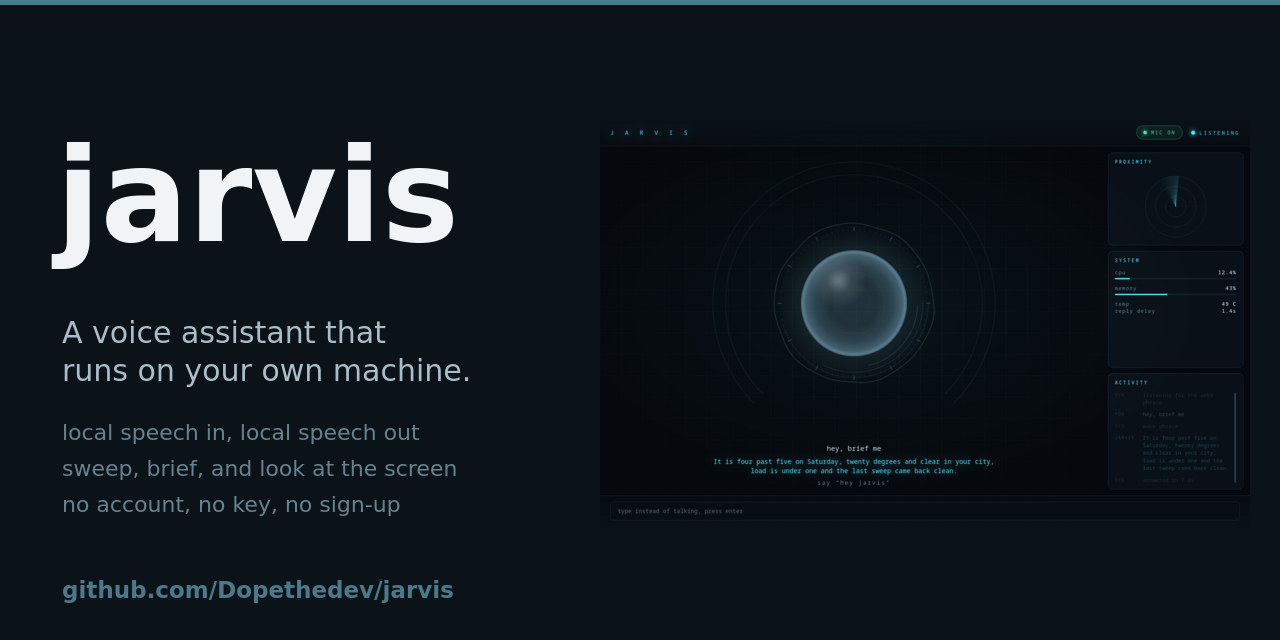
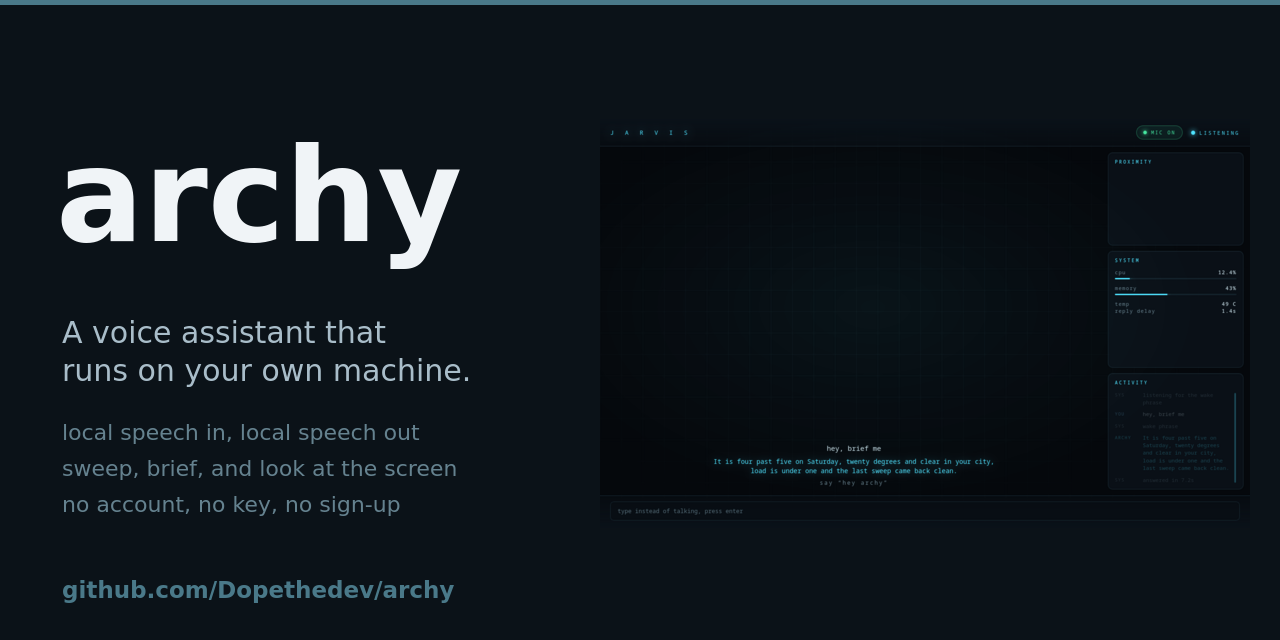
Redraw the screenshots with the name the project has now
The dashboard and the social card are the two things a stranger sees first, and
both still said JARVIS. Rendered from the scripts in docs/, so the change is the
name and nothing else, and verified by reading the text back out of the pictures
rather than by trusting the render.

The README says the name once in prose. "ARCHY" in a sentence reads like
shouting, which it was not when the name was an acronym.

diff --git a/README.md b/README.md
@@ -6,7 +6,7 @@
   <a href="https://github.com/Dopethedev/archy/actions/workflows/tests.yml"><img src="https://img.shields.io/github/actions/workflow/status/Dopethedev/archy/tests.yml?branch=main&label=tests&style=for-the-badge&logo=githubactions&logoColor=white&color=4fe3ff&labelColor=05080c" alt="tests"></a> <a href="https://github.com/Dopethedev/archy/releases"><img src="https://img.shields.io/github/v/release/Dopethedev/archy?style=for-the-badge&label=release&logo=github&logoColor=white&color=4fe3ff&labelColor=05080c" alt="latest release"></a> <img src="https://img.shields.io/badge/licence-MIT-4fe3ff?style=for-the-badge&logo=opensourceinitiative&logoColor=white&labelColor=05080c" alt="MIT licence"> <img src="https://img.shields.io/badge/python-3.12-4fe3ff?style=for-the-badge&logo=python&logoColor=white&labelColor=05080c" alt="python 3.12"> <img src="https://img.shields.io/badge/linux%20%2B%20windows%20%2B%20macos-4fe3ff?style=for-the-badge&logo=linux&logoColor=white&labelColor=05080c" alt="Linux, Windows and macOS">
 </p>
 
-**A voice assistant that runs on your own machine.** Say the wake phrase, ask
+**Archy is a voice assistant that runs on your own machine.** Say the wake phrase, ask
 something, hear the answer. It also reads your screen, sets reminders, briefs you,
 sweeps the machine for anything odd, and drives a dashboard that changes mood by
 voice.
@@ -91,7 +91,7 @@ Optional, per feature, each reported as skipped rather than as a clean machine:
 - `clamscan` for the virus scan, `lynis` for the deeper audit, and `rkhunter` for the
   rootkit check, which is root only on Arch, so the sweep says it could not run.
 - `niri`, `hyprctl` or `swaymsg`, whichever compositor you run, for "focus the
-  browser". A desktop ARCHY does not recognise gets one honest sentence.
+  browser". A desktop Archy does not recognise gets one honest sentence.
 
 Arch: `pacman -S pipewire grim ffmpeg clamav lynis rkhunter`, and Debian the same
 names through `apt install libportaudio2 pipewire grim ffmpeg clamav lynis rkhunter`.
